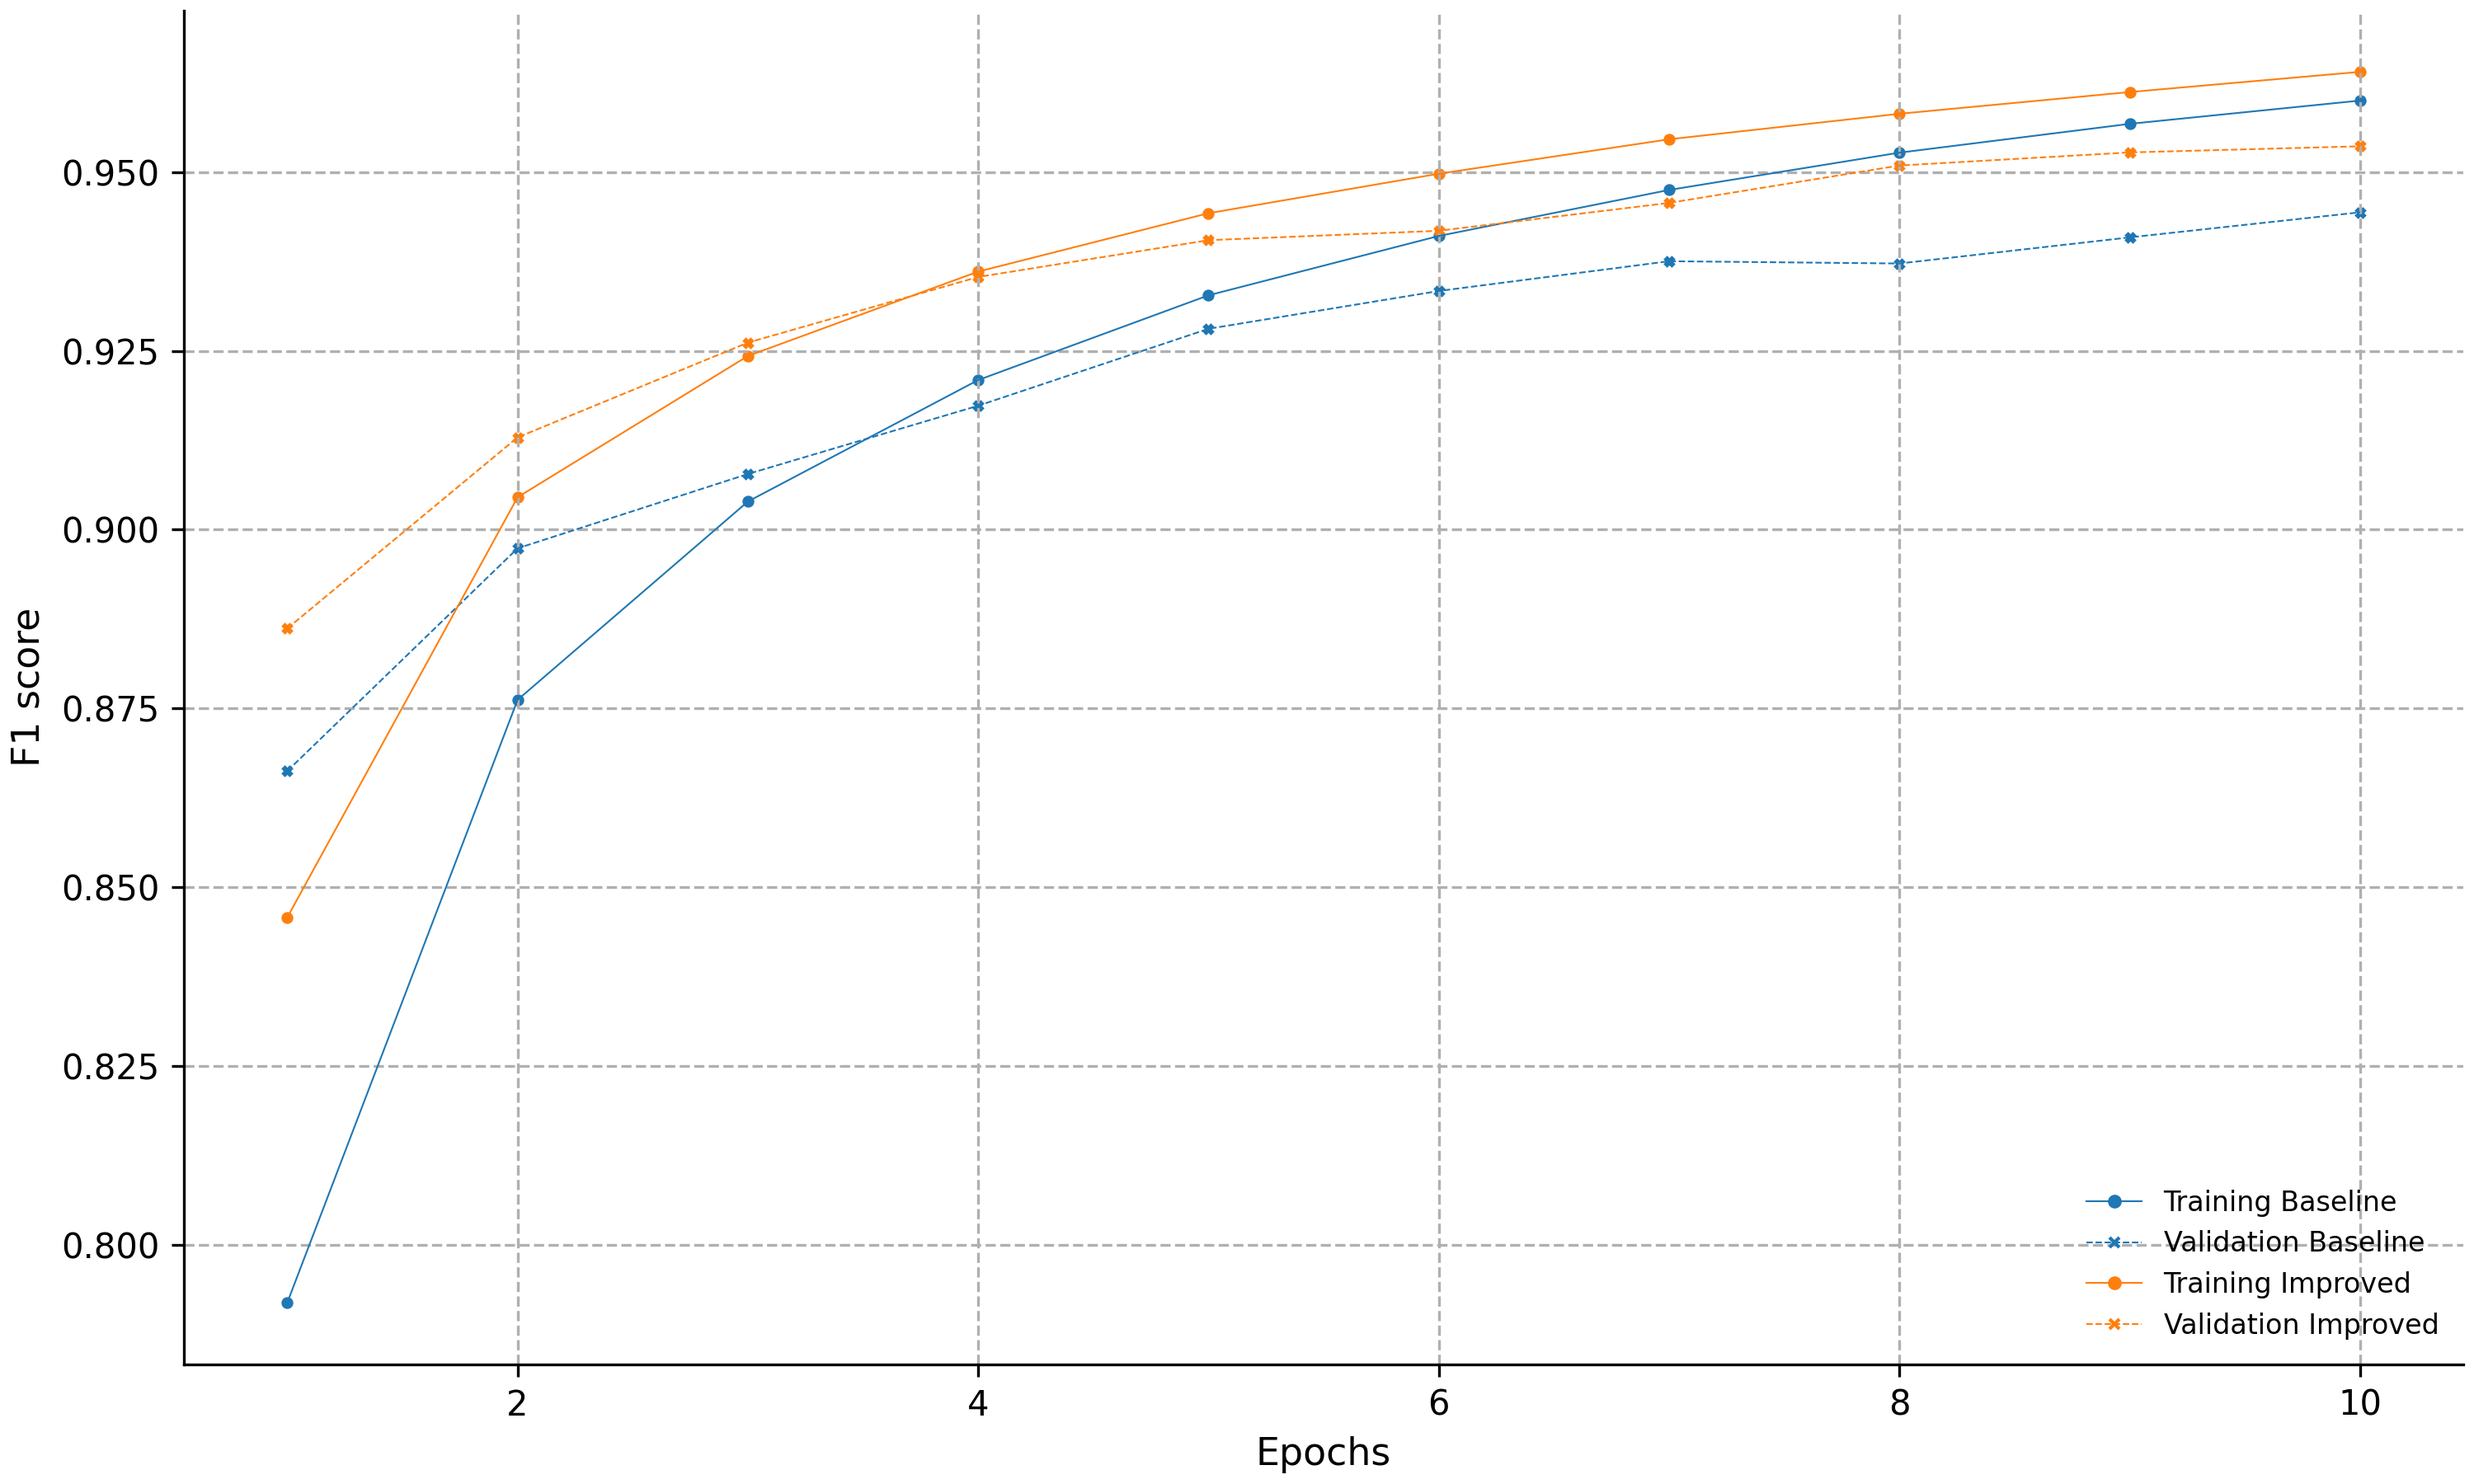
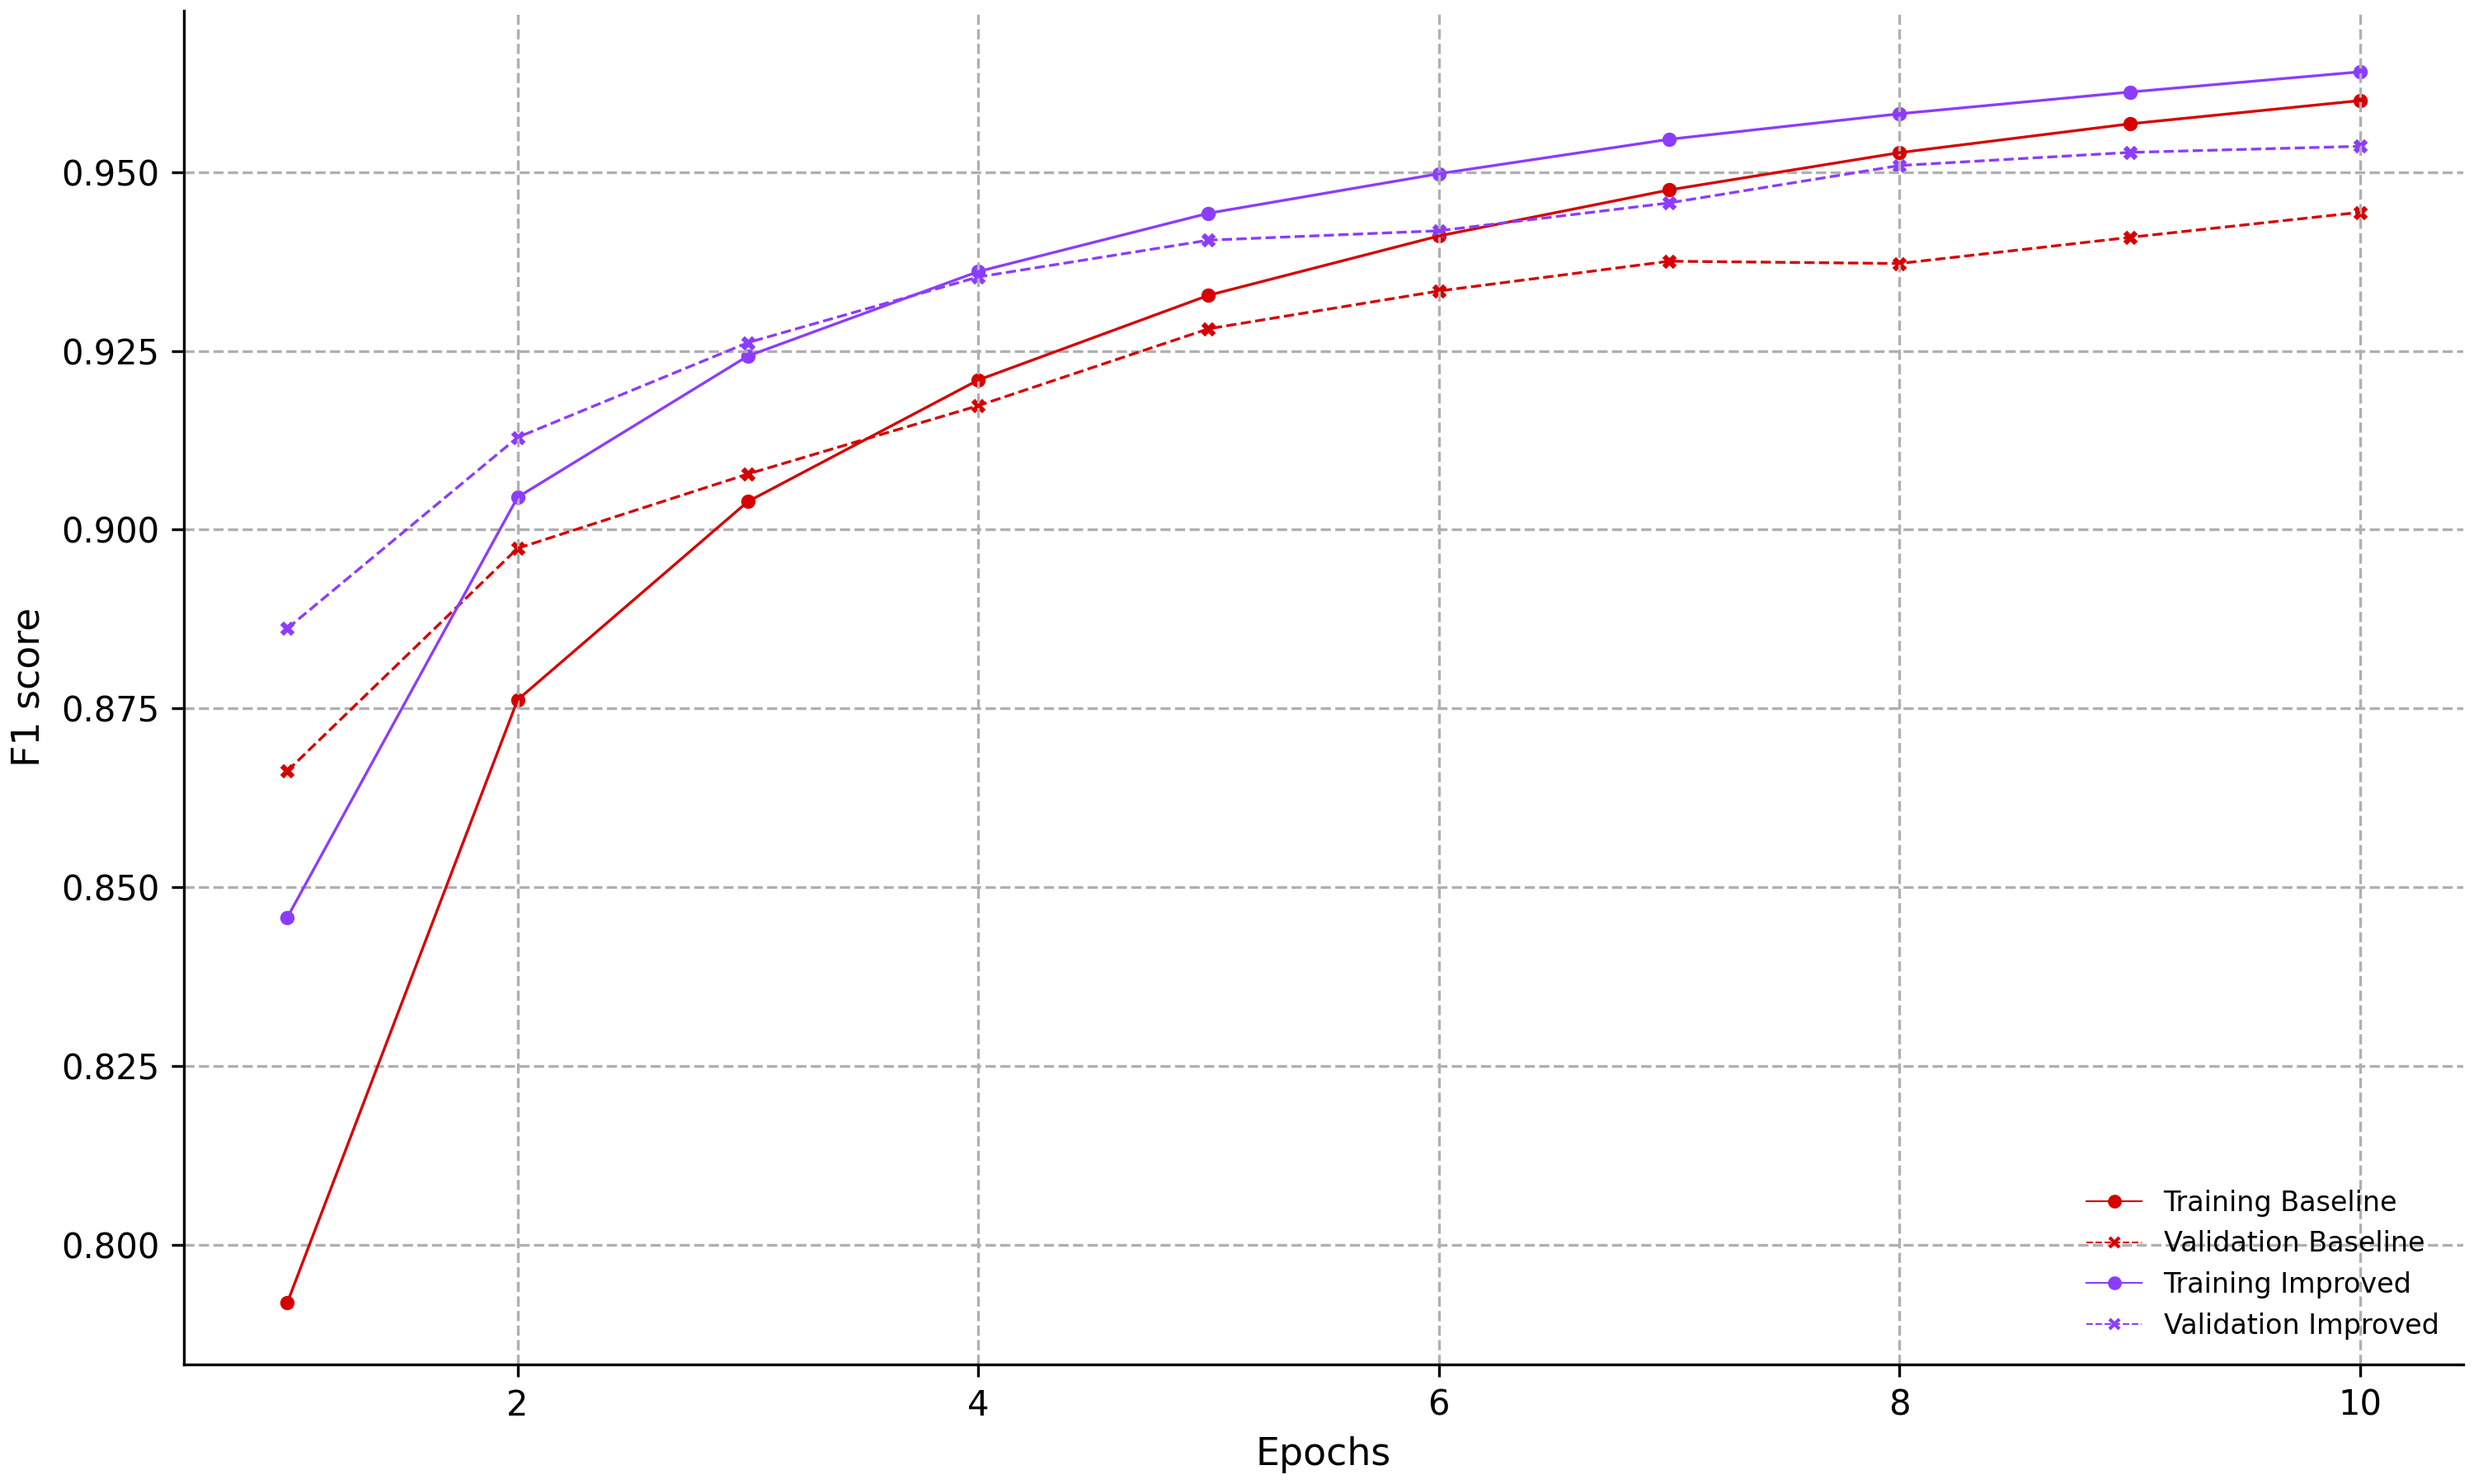
Updated plots

diff --git a/experiments/utils.py b/experiments/utils.py
@@ -481,7 +481,7 @@ def fit_model(model, train_dataset, validation_dataset, loss_func = F.binary_cro
 def plot_f1_curves(training_df, output_file = None):
     """
     """
-    colors = mpl.colormaps["tab10"].colors
+    colors = mpl.colormaps["cet_glasbey_dark"].colors
     fig, ax = plt.subplots(constrained_layout=True, figsize = (10, 6))
 
     handles = []
@@ -492,12 +492,12 @@ def plot_f1_curves(training_df, output_file = None):
 
       x = [i for i in range(1, len(training_f1)+1)]
 
-      ax.scatter(x=x, y=training_f1, marker="o", color=colors[index], s = 6)
-      ax.scatter(x=x, y=valid_f1, marker="x", color=colors[index], s = 6)
+      ax.scatter(x=x, y=training_f1, marker="o", color=colors[index], s = 10)
+      ax.scatter(x=x, y=valid_f1, marker="x", color=colors[index], s = 10)
 
       # Create line plots for training and validation
-      ax.plot(x, training_f1, linestyle="-", color=colors[index], linewidth = 0.5)
-      ax.plot(x, valid_f1, linestyle="--", color=colors[index], linewidth = 0.5)
+      ax.plot(x, training_f1, linestyle="-", color=colors[index], linewidth = 0.8)
+      ax.plot(x, valid_f1, linestyle="--", color=colors[index], linewidth = 0.8)
 
       #Add handles for legend
       handles.append(Line2D([0], [0], color = colors[index], linestyle = "-", marker = "o", label = f"Training {loss_name}", linewidth=0.5, markersize=3))
@@ -520,7 +520,7 @@ def plot_f1_curves(training_df, output_file = None):
 def plot_loss_curves(training_df, output_file = None):
     """
     """
-    colors = mpl.colormaps["tab10"].colors
+    colors = mpl.colormaps["cet_glasbey_dark"].colors
 
     fig, ax = plt.subplots(constrained_layout=True, figsize = (10, 6))
 
@@ -532,18 +532,16 @@ def plot_loss_curves(training_df, output_file = None):
 
       x = [i for i in range(1, len(training_loss)+1)]
 
-      ax.scatter(x=x, y=training_loss, marker="o", color=colors[index], s=6)
-      ax.scatter(x=x, y=valid_loss, marker="x", color=colors[index], s=6)
+      ax.scatter(x=x, y=training_loss, marker="o", color=colors[index], s=10)
+      ax.scatter(x=x, y=valid_loss, marker="x", color=colors[index], s=10)
 
       # Create line plots for training and validation
-      ax.plot(x, training_loss, linestyle="-", color=colors[index], linewidth = 0.5)
-      ax.plot(x, valid_loss, linestyle="--", color=colors[index], linewidth = 0.5)
+      ax.plot(x, training_loss, linestyle="-", color=colors[index], linewidth = 0.8)
+      ax.plot(x, valid_loss, linestyle="--", color=colors[index], linewidth = 0.8)
 
       #Add handles for legend
       handles.append(Line2D([0], [0], color = colors[index], linestyle = "-", marker = "o", label = f"Training {model_name}", linewidth=0.5, markersize=3))
       handles.append(Line2D([0], [0], color = colors[index], linestyle = "--", marker = "x", label = f"Validation {model_name}", linewidth=0.5, markersize=3))
-
-    #ax.set_yscale('log')
 
     ax.set_xlabel("Epochs", size = 11)
     ax.legend(handles = handles, loc = 'upper right', fontsize=8, frameon=False)

diff --git a/scripts/utils/plots.py b/scripts/utils/plots.py
@@ -125,6 +125,7 @@ def plot_time(time, lengths, outputfile = None):
     - time (list): A list of floats representing the time it took to predict the structure of each sequence.
     - lengths (list): A list of integers representing the length of each sequence.
     """
+    col = mpl.colormaps['cet_glasbey_dark'].colors[0]
 
     plt.figure(figsize=(10, 6))
     plt.scatter(lengths, time, facecolor='none', edgecolor = 'C0', s=20, linewidths = 1)
@@ -153,14 +154,14 @@ def plot_timedict(timedict: dict, lengths: list, outputfile = None) -> None:
     - None
     """
 
-    colors = ['C0', 'C1', 'C2', 'C3', 'C4', 'C5', 'C6', 'C7', 'C8', 'C9']
+    colors = mpl.colormaps['cet_glasbey_dark'].colors
     
     
     fig, ax = plt.subplots(figsize = (10, 6)) 
     handles = []
 
     for i, func in enumerate(timedict):
-        ax.scatter(x= lengths, y=timedict[func], facecolor='none', edgecolor = colors[i], s=20, linewidths = 1)
+        ax.scatter(x= lengths, y=timedict[func], facecolor='none', edgecolor = colors[i], s=15, linewidths = 1)
         ax.plot(lengths, timedict[func], color = colors[i], linestyle = '--', linewidth = 0.8)
         #Add handles to make a legend
         handles.append(Line2D([0], [0], color = colors[i], linestyle = '--', linewidth = 0.8, marker = 'o', markerfacecolor = 'none', markeredgecolor = colors[i], label = func))

diff --git a/other_methods/nussinov.py b/other_methods/nussinov.py
@@ -77,9 +77,8 @@ def plot_time(time, lengths):
     - time (list): A list of floats representing the time it took to predict the structure of each sequence.
     - lengths (list): A list of integers representing the length of each sequence.
     """
-
-    plt.scatter(lengths, time, facecolor='none', edgecolor = 'C0', s=20, linewidths = 1)
-    plt.plot(lengths, time, linestyle = '--', linewidth = 0.8)
+    plt.scatter(lengths, time, facecolor='none', edgecolor = 'C0', s=10, linewidths = 1)
+    plt.plot(lengths, time, linestyle = '--', linewidth = 0.8, color = 'C0')
     plt.xlabel('Sequence length')
     plt.ylabel('Time (s)')
     plt.grid(linestyle='--')
